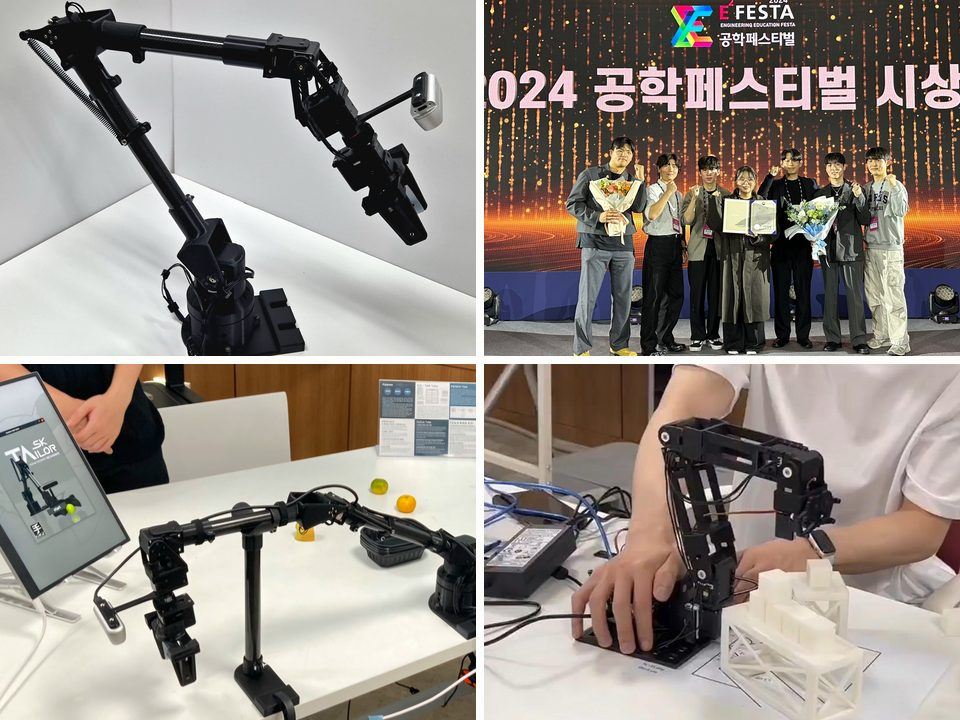
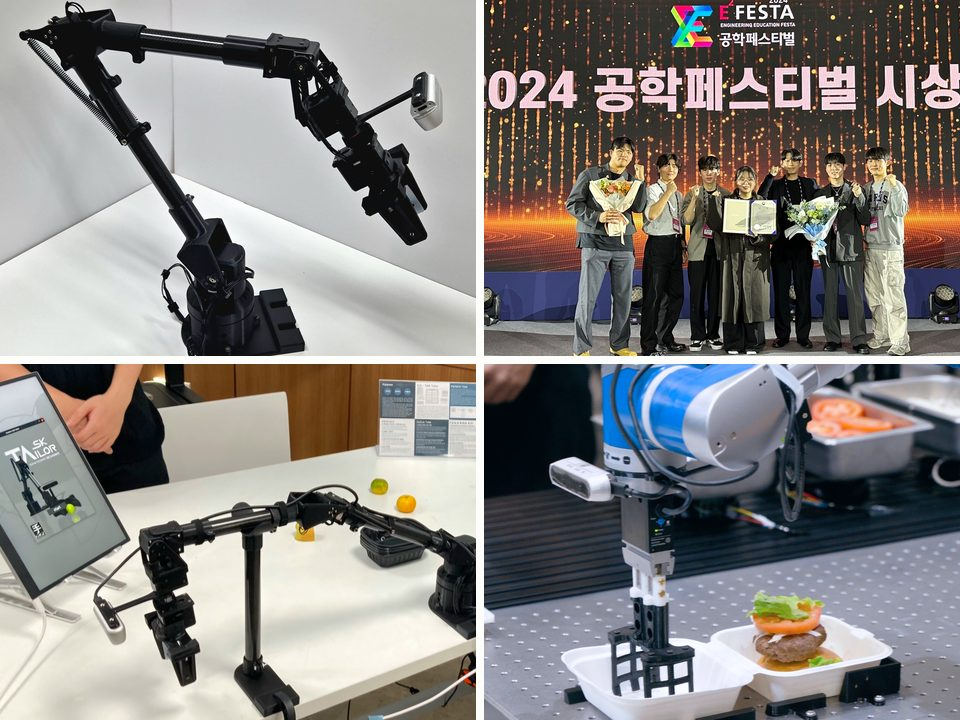
Show the hamburger robot in the SOOMAC collage
The bottom-right tile was a photo of another team's arm moving blocks.
It now shows SOOMAC's hamburger robot assembling a burger at the
competition demo, and the alt text says so.

Changed region(s): [[0.5, 0.4889, 1.0, 1.0]]

diff --git a/index.html b/index.html
@@ -686,7 +686,7 @@ footer{
   <div class="exp-item has-media">
     <div class="exp-media">
       <a href="assets/experience/soomac-collage.jpg" target="_blank" rel="noopener">
-        <img src="assets/experience/soomac-collage.jpg" width="960" height="720" loading="lazy" alt="SOOMAC photo collage: the team's robot arm, the team on stage at the 2024 Creative Engineering Design Competition award ceremony, the arm and its control GUI at the exhibition booth, and an early prototype of the arm being assembled">
+        <img src="assets/experience/soomac-collage.jpg" width="960" height="720" loading="lazy" alt="SOOMAC photo collage: the team's robot arm, the team on stage at the 2024 Creative Engineering Design Competition award ceremony, the arm and its control GUI at the exhibition booth, and the team's hamburger robot assembling a burger during a competition demo">
       </a>
     </div>
     <div class="exp-details">
